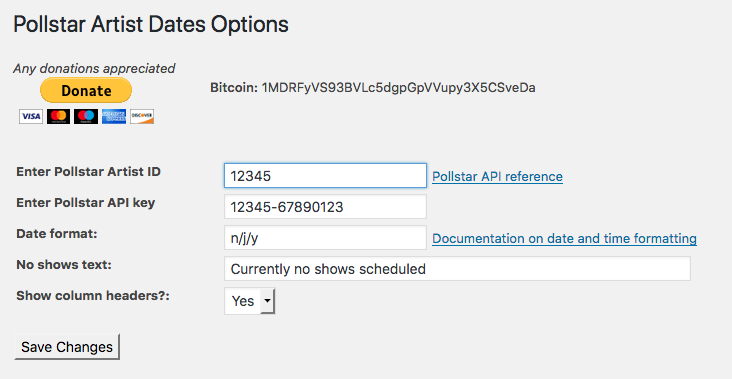
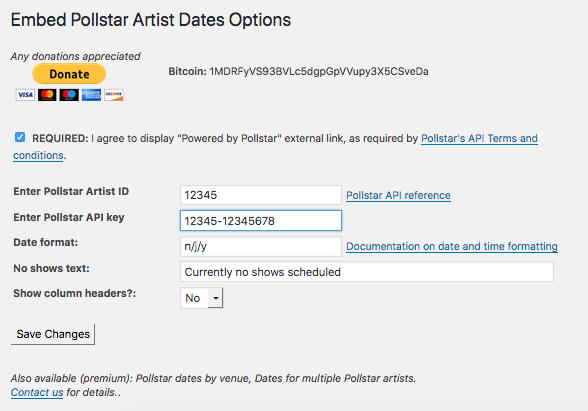
changing name to embed-*

diff --git a/embed-pollstar-dates.php b/embed-pollstar-dates.php
@@ -1,61 +1,86 @@
 <?php
 /**
- * @package Pollstar_Dates
+ * @package Embed_Pollstar_Artist_Dates
  */
 /*
-Plugin Name: Pollstar Artist Dates
+Plugin Name: Embed Pollstar Artist Dates
 Description: Show Pollstar Artist's tour dates on Wordpress site.  Requires Pollstar API key.
 Version: 1.0
 Author: Expomás Diseño Web
 Author URI: https://expomas.com
 */
 
-wp_enqueue_style('pollstar-dates', plugins_url( '/pollstar-dates.css', __FILE__ ), false, '', 'screen');
+wp_enqueue_style('embed-pollstar-dates', plugins_url( '/embed-pollstar-dates.css', __FILE__ ), false, '', 'screen');
 
 function pollstar_shows($atts) {
 
-	//echo "Do we get here?";
+	// Has Admin agreed to Pollstar terms? If not, die
+	$terms = get_option('pollstar_terms');
+
+	if ($terms !== '1') {
+
+		echo 'Error: please check settings and agree to Pollstar conditions<br /><br />';
+
+	} else { // Admin has agreed to terms
 
 	extract( shortcode_atts( array(
 		'num_shows' => 1000 // set default to lots...
 	), $atts ) );
 
-	// 1st: figure out if we should write dates from pollstar-cache.xml, or Pollstar server...
-	$cache = ABSPATH . 'wp-content/plugins/pollstar-dates/pollstar-cache.xml';
+	// 1st: figure out if we should write dates from embed-pollstar-cache.xml,
+	// or Pollstar server...
+	$cache = plugin_dir_path( __FILE__). 'embed-pollstar-cache.xml';
 
-	// Is pollstar-cache.xml too old? (more than an hour old), then get new Pollstar data
+	// Is embed-pollstar-cache.xml too old? (more than an hour old), then get new Pollstar data
 	$cache_age = time() - filemtime($cache);
 
-	// Is pollstar-cache.xml empty?  Then try and get new data (ex. on first use of plugin)
+	// Is embed-pollstar-cache.xml empty?  Then try and get new data (ex. on first use of plugin)
 	$cache_stat = stat($cache);
+
 	if ( ($cache_age > (60*60) ) OR ($cache_stat['size'] < 260) )  {
 
-		$ch = curl_init();
-
-		// Construct the $data var to pass to Pollstar using the db's API & Artist ID
+		// Construct the data to pass to Pollstar using the db's API & Artist ID
 		$artist_id = get_option('pollstar_artist');
 		$pollstar_api = get_option('pollstar_api');
 
-		$data = "artistID=$artist_id&startDate=1-1-2012&dayCount=0&page=0&pageSize=0&apiKey=$pollstar_api";
+		$body = array(
 
-		curl_setopt($ch, CURLOPT_URL, 'http://data.pollstar.com/api/pollstar.asmx/ArtistEvents');
-		curl_setopt($ch, CURLOPT_POST, 1);
-		curl_setopt($ch, CURLOPT_POSTFIELDS, $data);
-		curl_setopt($ch, CURLOPT_RETURNTRANSFER, TRUE);
+		    'artistID' => $artist_id,
+		    'startDate' => '1-1-2012',
+		    'dayCount' => '0',
+		    'page' => '0',
+				'pageSize' => '0',
+				'apiKey' => $pollstar_api
 
-		$xmlstr = curl_exec($ch);
+		);
 
-		if (stripos($xmlstr, "not valid") OR stripos($xmlstr, "not authorized")) {
-			echo "Pollstar API/Artist not valid<br /><br />";
+		$args = array(
+
+		    'body' => $body
+		);
+
+		$response1 = wp_remote_post( 'http://data.pollstar.com/api/pollstar.asmx/ArtistEvents', $args );
+
+		$http_code = wp_remote_retrieve_response_code( $response1 );
+
+		// if the http code is not 200, show error, not dates...
+		if ($http_code != '200') {
+
+			echo 'Server error, please check settings'.'<br /><br />';
 			$invalid = true;
-		}
 
-		$response = new SimpleXMLElement($xmlstr);
+		} else { //http code is 200, continue
 
-		// write new Pollstar data to cache
-		// Don't cache if we got an invalid response...
+		$response = new SimpleXMLElement($response1["body"]);
 
-		if(is_file($cache) && is_readable($cache)){
+		// is there an Error->Message from Pollstar? if so show it, not dates
+		if ($response->Message) {
+
+			echo $response->Message.'<br /><br />';
+			$invalid = true;
+
+		// write new Pollstar data to cache if possible
+		} elseif ( is_file($cache) && is_readable($cache) ) {
 
 			 $open = fopen($cache, 'w') or die ("File cannot be opened.");
 			 fwrite($open, $response->asXML());
@@ -63,10 +88,10 @@ function pollstar_shows($atts) {
 
 		} else {
 
-			echo "Error: check that pollstar-cache.xml is writable<br /><br />";
+			echo "Error: check that embed-pollstar-cache.xml is writable<br /><br />";
 		}
 
-		curl_close($ch);
+	 } // end elseif code is not 200
 
 	} else { // this means $cache is NOT too old, so use it instead of getting Pollstar data...
 
@@ -136,6 +161,7 @@ function pollstar_shows($atts) {
 
 	<?php
 
+} // end else (Admin has agreed to terms)
 }
 
 add_shortcode('pollstar_shows','pollstar_shows');
@@ -175,8 +201,8 @@ if ( is_admin() ){
 
 	function pollstar_dates_admin_menu() {
 
-		add_options_page('Pollstar Dates', 'Pollstar Dates', 'administrator',
-		'pollstar-dates', 'pollstar_dates_html_page');
+		add_options_page('Embed Pollstar Artist Dates', 'Embed Pollstar Artist Dates', 'administrator',
+		'embed-pollstar-dates', 'pollstar_dates_html_page');
 	}
 
 
@@ -185,8 +211,7 @@ if ( is_admin() ){
 add_filter( 'plugin_action_links_' . plugin_basename(__FILE__), 'pollstar_dates_action_links' );
 
 function pollstar_dates_action_links( $links ) {
-   $links[] = '<a href="'. esc_url( get_admin_url(null, 'options-general.php?page=pollstar-dates') ) .'">Settings</a>';
-   //$links[] = '<a href="http://wp-buddy.com" target="_blank">More plugins by WP-Buddy</a>';
+   $links[] = '<a href="'. esc_url( get_admin_url(null, 'options-general.php?page=embed-pollstar-dates') ) .'">Settings</a>';
    return $links;
 }
 
@@ -194,7 +219,7 @@ function pollstar_dates_html_page() {
 ?>
 
     <div class="wrap" style="max-width: 61.727777777%;">
-	<h2>Pollstar Artist Dates Options</h2>
+	<h2>Embed Pollstar Artist Dates Options</h2>
 
 	<br />
 	<em>Any donations appreciated</em><br />
@@ -211,26 +236,22 @@ function pollstar_dates_html_page() {
 	<?php wp_nonce_field('update-options'); ?>
 
 	<table width="710">
-	<tr valign="top">
+	<tr valign="top" style="margin-bottom:20px;">
 		<td colspan="2">
 
-			<?php if (get_option('pollstar_show_terms') == 1) { ?>
+			<input type="checkbox" name="pollstar_terms" id="pollstar_terms"
+				value="1"
 
-				<input type="checkbox" name="terms" value="1" checked required>
+				<?php if (get_option('pollstar_terms') == 1) { echo 'checked '; } ?>
+				required style="margin-bottom:6px;">
 
-			<?php } else { ?>
-
-				<input type="checkbox" name="terms" value="0" required>
-
-			<?php } ?>
-
-
-		I agree to
+		<b>REQUIRED: </b>I agree to
 			display "Powered by Pollstar" external link, as required by
 			<a href="http://data.pollstar.com/api/" target="_blank">Pollstar's API Terms
 			and conditions</a>.
 		</td>
 	</tr>
+	<tr><td colspan="2">&nbsp;</td></tr>
 	<tr valign="top">
 	<th width="192" style="text-align:left;">Enter Pollstar Artist ID</th>
 	<td width="406">
@@ -253,7 +274,8 @@ function pollstar_dates_html_page() {
 	<td width="406">
 	<input name="pollstar_date_format" type="text" id="pollstar_date_format"
 	value="<?php echo get_option('pollstar_date_format'); ?>" />
-	<a href="http://codex.wordpress.org/Formatting_Date_and_Time" target="_blank">Documentation on date and time formatting</a>
+	<a href="http://codex.wordpress.org/Formatting_Date_and_Time"
+		target="_blank">Documentation on date and time formatting</a>
 	</td>
 	</tr>
 
@@ -290,8 +312,8 @@ function pollstar_dates_html_page() {
 	</table>
 
 	<input type="hidden" name="action" value="update" />
-	<input type="hidden" name="page_options" value="pollstar_artist,pollstar_api,pollstar_date_format,pollstar_noshow_text,pollstar_show_headers" />
-
+	<input type="hidden" name="page_options"
+		value="pollstar_artist,pollstar_api,pollstar_date_format,pollstar_noshow_text,pollstar_show_headers,pollstar_terms" />
 	<p>
 	<input type="submit" value="<?php _e('Save Changes') ?>" />
 	</p>
